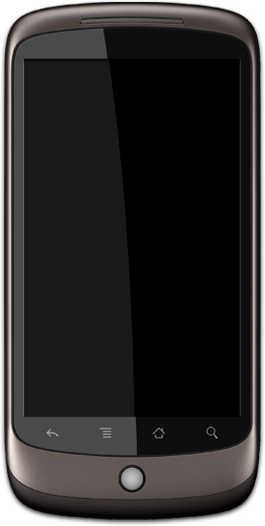
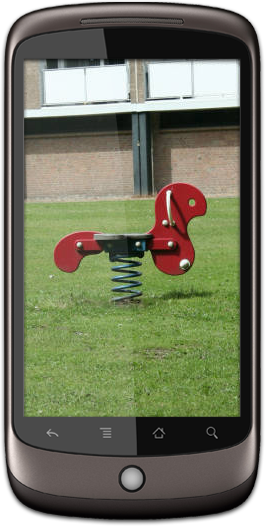
smaller range (2km) and more results (200) for better spread, and updated homepage image

diff --git a/templates/playthings/index.html b/templates/playthings/index.html
@@ -75,7 +75,7 @@
 
     function get_list(lat, lng) {
 
-        $.getJSON('/api/nearby/'+lat+'/'+lng+'/5.json',
+        $.getJSON('/api/nearby/'+lat+'/'+lng+'/2.json',
         function(data) {
 
             $.each(data,

diff --git a/playthings/models.py b/playthings/models.py
@@ -63,11 +63,11 @@ class PlaythingManager(models.Manager):
 
         from django.db import connection, transaction
         cursor = connection.cursor()
-
-        sql = """SELECT id, (%f * acos( cos( radians(%f) ) * cos( radians( lat ) ) *
-        cos( radians( lng ) - radians(%f) ) + sin( radians(%f) ) * sin( radians( lat ) ) ) )
-        AS distance FROM playthings_plaything HAVING distance < %d
-        ORDER BY distance LIMIT 0 , %d;""" % (distance_unit, float(latitude), float(longitude), float(latitude), int(radius), max_results)
+        sql = """SELECT id FROM
+            (SELECT id, reference, lat, lng, address, (%d * acos(cos(radians(%f)) * cos(radians(lat)) *
+            cos(radians(lng) - radians(%f)) + sin(radians(%f)) * sin(radians(lat)))) AS distance
+            FROM playthings_plaything) AS distances WHERE distance < %d ORDER BY distance LIMIT 0, %d""" \
+        % (distance_unit, float(latitude), float(longitude), float(latitude), int(radius), max_results)
         cursor.execute(sql)
         ids = [row[0] for row in cursor.fetchall()]
 

diff --git a/api/handlers.py b/api/handlers.py
@@ -26,4 +26,4 @@ class PlaythingsHandler(BaseHandler):
         """
         Returns all play equipment within a certain range
         """
-        return Plaything.objects.nearby(lat, lng, km, 50) # limit to 50 results
+        return Plaything.objects.nearby(lat, lng, km, 200) # limit to 200 results
